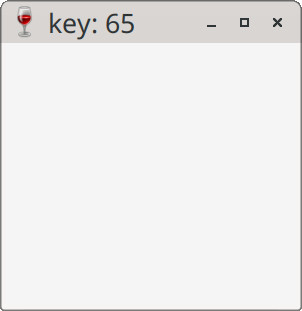
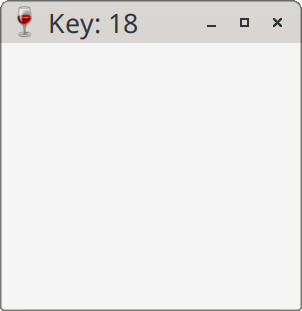
NASM Refined.

Changed region(s): [[0.149, 0.0289, 0.4768, 0.1447]]

diff --git a/program/nasm_win32_mouse.htm b/program/nasm_win32_mouse.htm
@@ -22,12 +22,12 @@ main.asm
 </p>
 <pre class="brush:asm">
     %include "head.asm"
-
+ 
     segment .text
 WndProc:
     push ebp
     mov ebp, esp
-  
+   
     cmp dword [ebp + ARG2], WM_MOUSEMOVE
     je .handle_mouse
     cmp dword [ebp + ARG2], WM_CLOSE
@@ -35,7 +35,7 @@ WndProc:
     cmp dword [ebp + ARG2], WM_DESTROY
     je .handle_destroy
     jmp .handle_default
- 
+  
 .handle_mouse:
     mov eax, [ebp + ARG4]
     and eax, 0ffffh
@@ -44,44 +44,44 @@ WndProc:
     shr eax, 16
     and eax, 0ffffh
     push eax
-    push fmt
-    push buf
+    push FMT_MOUSE
+    push pBuf
     call sprintf
- 
-    push buf
+  
+    push pBuf
     push dword [ebp + ARG1]
     call SetWindowText
     xor eax, eax
     jmp .finish
- 
+  
 .handle_close:
     push dword [ebp + ARG1]
     call DestroyWindow
     xor eax, eax
     jmp .finish
-  
+   
 .handle_destroy:
     push 0
     call PostQuitMessage
     xor eax, eax
     jmp .finish
-  
+   
 .handle_default:
     push dword [ebp + ARG4]
     push dword [ebp + ARG3]
     push dword [ebp + ARG2]
     push dword [ebp + ARG1]
-    push dword [defWndProc]
+    push dword [pDefWndProc]
     call CallWindowProc
-  
+   
 .finish:
     leave
     ret 16
-  
+   
 WinMain:
     push ebp
     mov ebp, esp
-   
+    
     push 0
     push 0
     push 0
@@ -91,18 +91,18 @@ WinMain:
     push 0
     push 0
     push WS_OVERLAPPEDWINDOW | WS_VISIBLE
-    push szCaption
+    push szAppName
     push WC_DIALOG
     push WS_EX_LEFT
     call CreateWindowEx
     mov [hWin], eax
-  
+
     push WndProc
     push GWL_WNDPROC
     push dword [hWin]
     call SetWindowLong
-    mov [defWndProc], eax
-   
+    mov [pDefWndProc], eax
+
 .loop:
     push 0
     push 0
@@ -111,30 +111,30 @@ WinMain:
     call GetMessage
     cmp eax, 0
     je .exit
-   
+    
     push msg
     call DispatchMessage
     jmp .loop
-   
+    
 .exit:
     mov eax, [msg + MSG.wParam]
     leave
     ret 16
-   
+    
 _start:
     push 0
     call GetModuleHandle
     mov [hInstance], eax
-   
+    
     call GetCommandLine
-    mov [CommandLine], eax
-   
+    mov [pCommand], eax
+    
     push SW_SHOWNORMAL
-    push dword [CommandLine]
+    push dword [pCommand]
     push 0
     push dword [hInstance]
     call WinMain
-   
+    
     push eax
     call ExitProcess
 </pre>

diff --git a/program/nasm_win32_keyboard.htm b/program/nasm_win32_keyboard.htm
@@ -29,12 +29,12 @@ main.asm
 </p>
 <pre class="brush:asm">
     %include "head.asm" 
-
+ 
     segment .text
 WndProc:
     push ebp
     mov ebp, esp
- 
+  
     cmp dword [ebp + ARG2], WM_KEYDOWN
     je .handle_keydown
     cmp dword [ebp + ARG2], WM_SYSKEYDOWN
@@ -44,47 +44,47 @@ WndProc:
     cmp dword [ebp + ARG2], WM_DESTROY
     je .handle_destroy
     jmp .handle_default
-
+ 
 .handle_keydown:
     push dword [ebp + ARG3]
-    push fmt
-    push buf
+    push FMT_KBD
+    push pBuf
     call sprintf
-
-    push buf
+ 
+    push pBuf
     push dword [ebp + ARG1]
     call SetWindowText
     xor eax, eax
     jmp .finish
-
+ 
 .handle_close:
     push dword [ebp + ARG1]
     call DestroyWindow
     xor eax, eax
     jmp .finish
- 
+  
 .handle_destroy:
     push 0
     call PostQuitMessage
     xor eax, eax
     jmp .finish
- 
+  
 .handle_default:
     push dword [ebp + ARG4]
     push dword [ebp + ARG3]
     push dword [ebp + ARG2]
     push dword [ebp + ARG1]
-    push dword [defWndProc]
+    push dword [pDefWndProc]
     call CallWindowProc
- 
+  
 .finish:
     leave
     ret 16
- 
+  
 WinMain:
     push ebp
     mov ebp, esp
-  
+   
     push 0
     push 0
     push 0
@@ -94,18 +94,18 @@ WinMain:
     push 0
     push 0
     push WS_OVERLAPPEDWINDOW | WS_VISIBLE
-    push szCaption
+    push szAppName
     push WC_DIALOG
     push WS_EX_LEFT
     call CreateWindowEx
     mov [hWin], eax
- 
+  
     push WndProc
     push GWL_WNDPROC
     push dword [hWin]
     call SetWindowLong
-    mov [defWndProc], eax
-  
+    mov [pDefWndProc], eax
+   
 .loop:
     push 0
     push 0
@@ -114,30 +114,30 @@ WinMain:
     call GetMessage
     cmp eax, 0
     je .exit
-  
+   
     push msg
     call DispatchMessage
     jmp .loop
-  
+   
 .exit:
     mov eax, [msg + MSG.wParam]
     leave
     ret 16
-  
+   
 _start:
     push 0
     call GetModuleHandle
     mov [hInstance], eax
-  
+   
     call GetCommandLine
-    mov [CommandLine], eax
-  
+    mov [pCommand], eax
+   
     push SW_SHOWNORMAL
-    push dword [CommandLine]
+    push dword [pCommand]
     push 0
     push dword [hInstance]
     call WinMain
-  
+   
     push eax
     call ExitProcess
 </pre>
